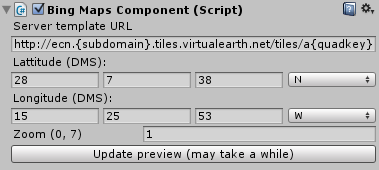
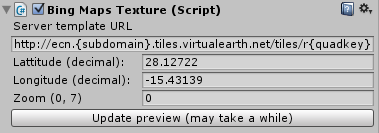
Updated BingMaps section in README.md

diff --git a/README.md b/README.md
@@ -38,12 +38,14 @@ To take a look at the possibilities of this package. Just open the scene WorldMa
 
 ### Adding a BingMaps map to the scene
 
-#### Requirements - Getting a BingMaps key
+#### Requirements
 
 In order to use BingMaps you need one or two things:
 
 - According to your user case, **you may need to get permission from Microsoft** to use its API (See [Microsoft® Bing™ Maps Platform APIs’ Terms Of Use](https://www.microsoft.com/maps/product/terms.html)).
 - **Generating and using a BingMaps key**.
+
+#### Getting a BingMaps key
 
 1. Get a BingMaps key by following the steps listed in ["Creating a Bing Maps Key"](https://msdn.microsoft.com/es-es/library/ff428642.aspx)
 2. Visit <http://dev.virtualearth.net/REST/V1/Imagery/Metadata/Road?mapVersion=v1&output=xml&key=BingMapsKey>, **replacing BingMapsKey with your Bing Maps key**.
@@ -51,14 +53,14 @@ In order to use BingMaps you need one or two things:
 
 #### Adding a BingMaps map to the scene
 
-1. Drag the prefab WorldMaps/Prefabs/BingMapsTerrain.prefab and drop it into the scene.
+1. Drag the prefab WorldMaps/Prefabs/BingMapsPlane.prefab and drop it into the scene.
 
   ![](Images/Tutorial/BingMaps/DroppingBingMapsPrefabIntoScene.png)
   
-2. With the plane selected, a BingMapsComponent inspector should appear on the right. 
+2. With the plane selected, a BingMapsTexture inspector should appear on the right. 
 
   ![](Images/Tutorial/BingMaps/BingMapsInspector.png)
   
-  1. Paste the URL retrieved in previous section "Requirements - Getting a BingMaps key" into the "Server template URL" text field.
+  1. Paste the URL retrieved in previous section "Getting a BingMaps key" into the "Server template URL" text field.
   2. Set both the latitude and the longitude of the point for wich you want to get a map, as well as a zoom level.
   3. Press "Update preview" to update the scene view with the BingMaps texture and check that everything is OK.
